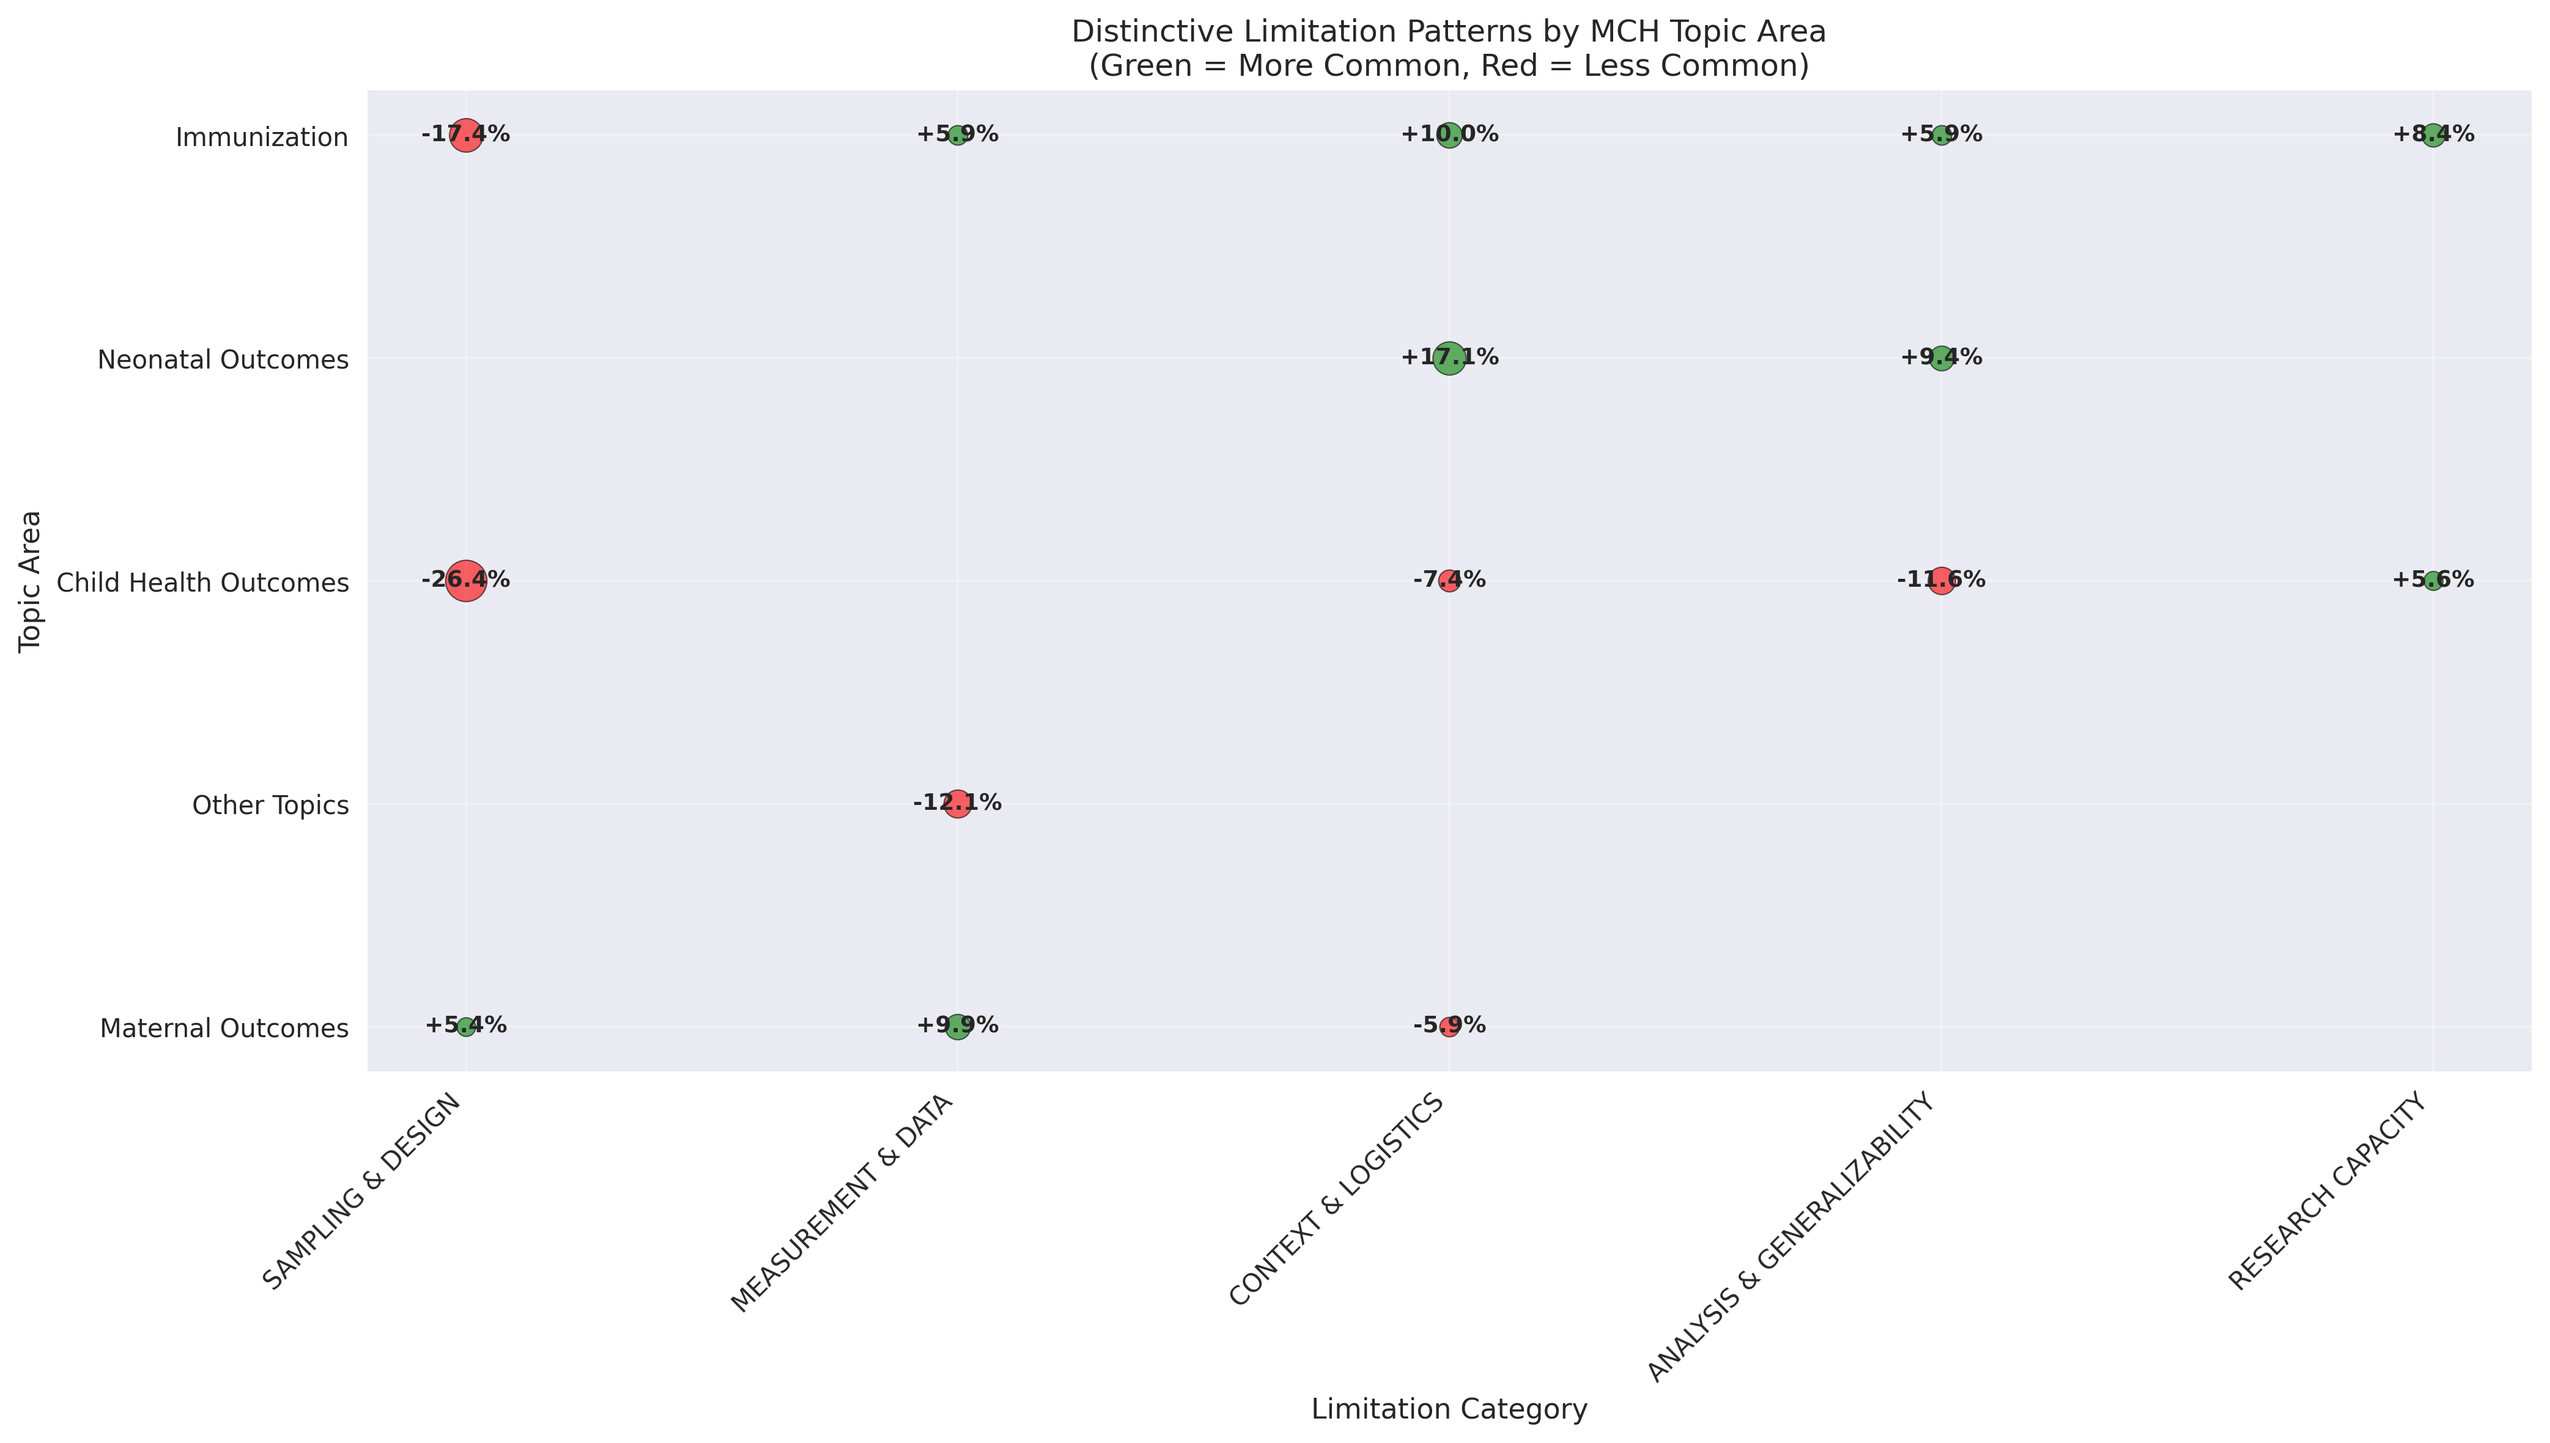
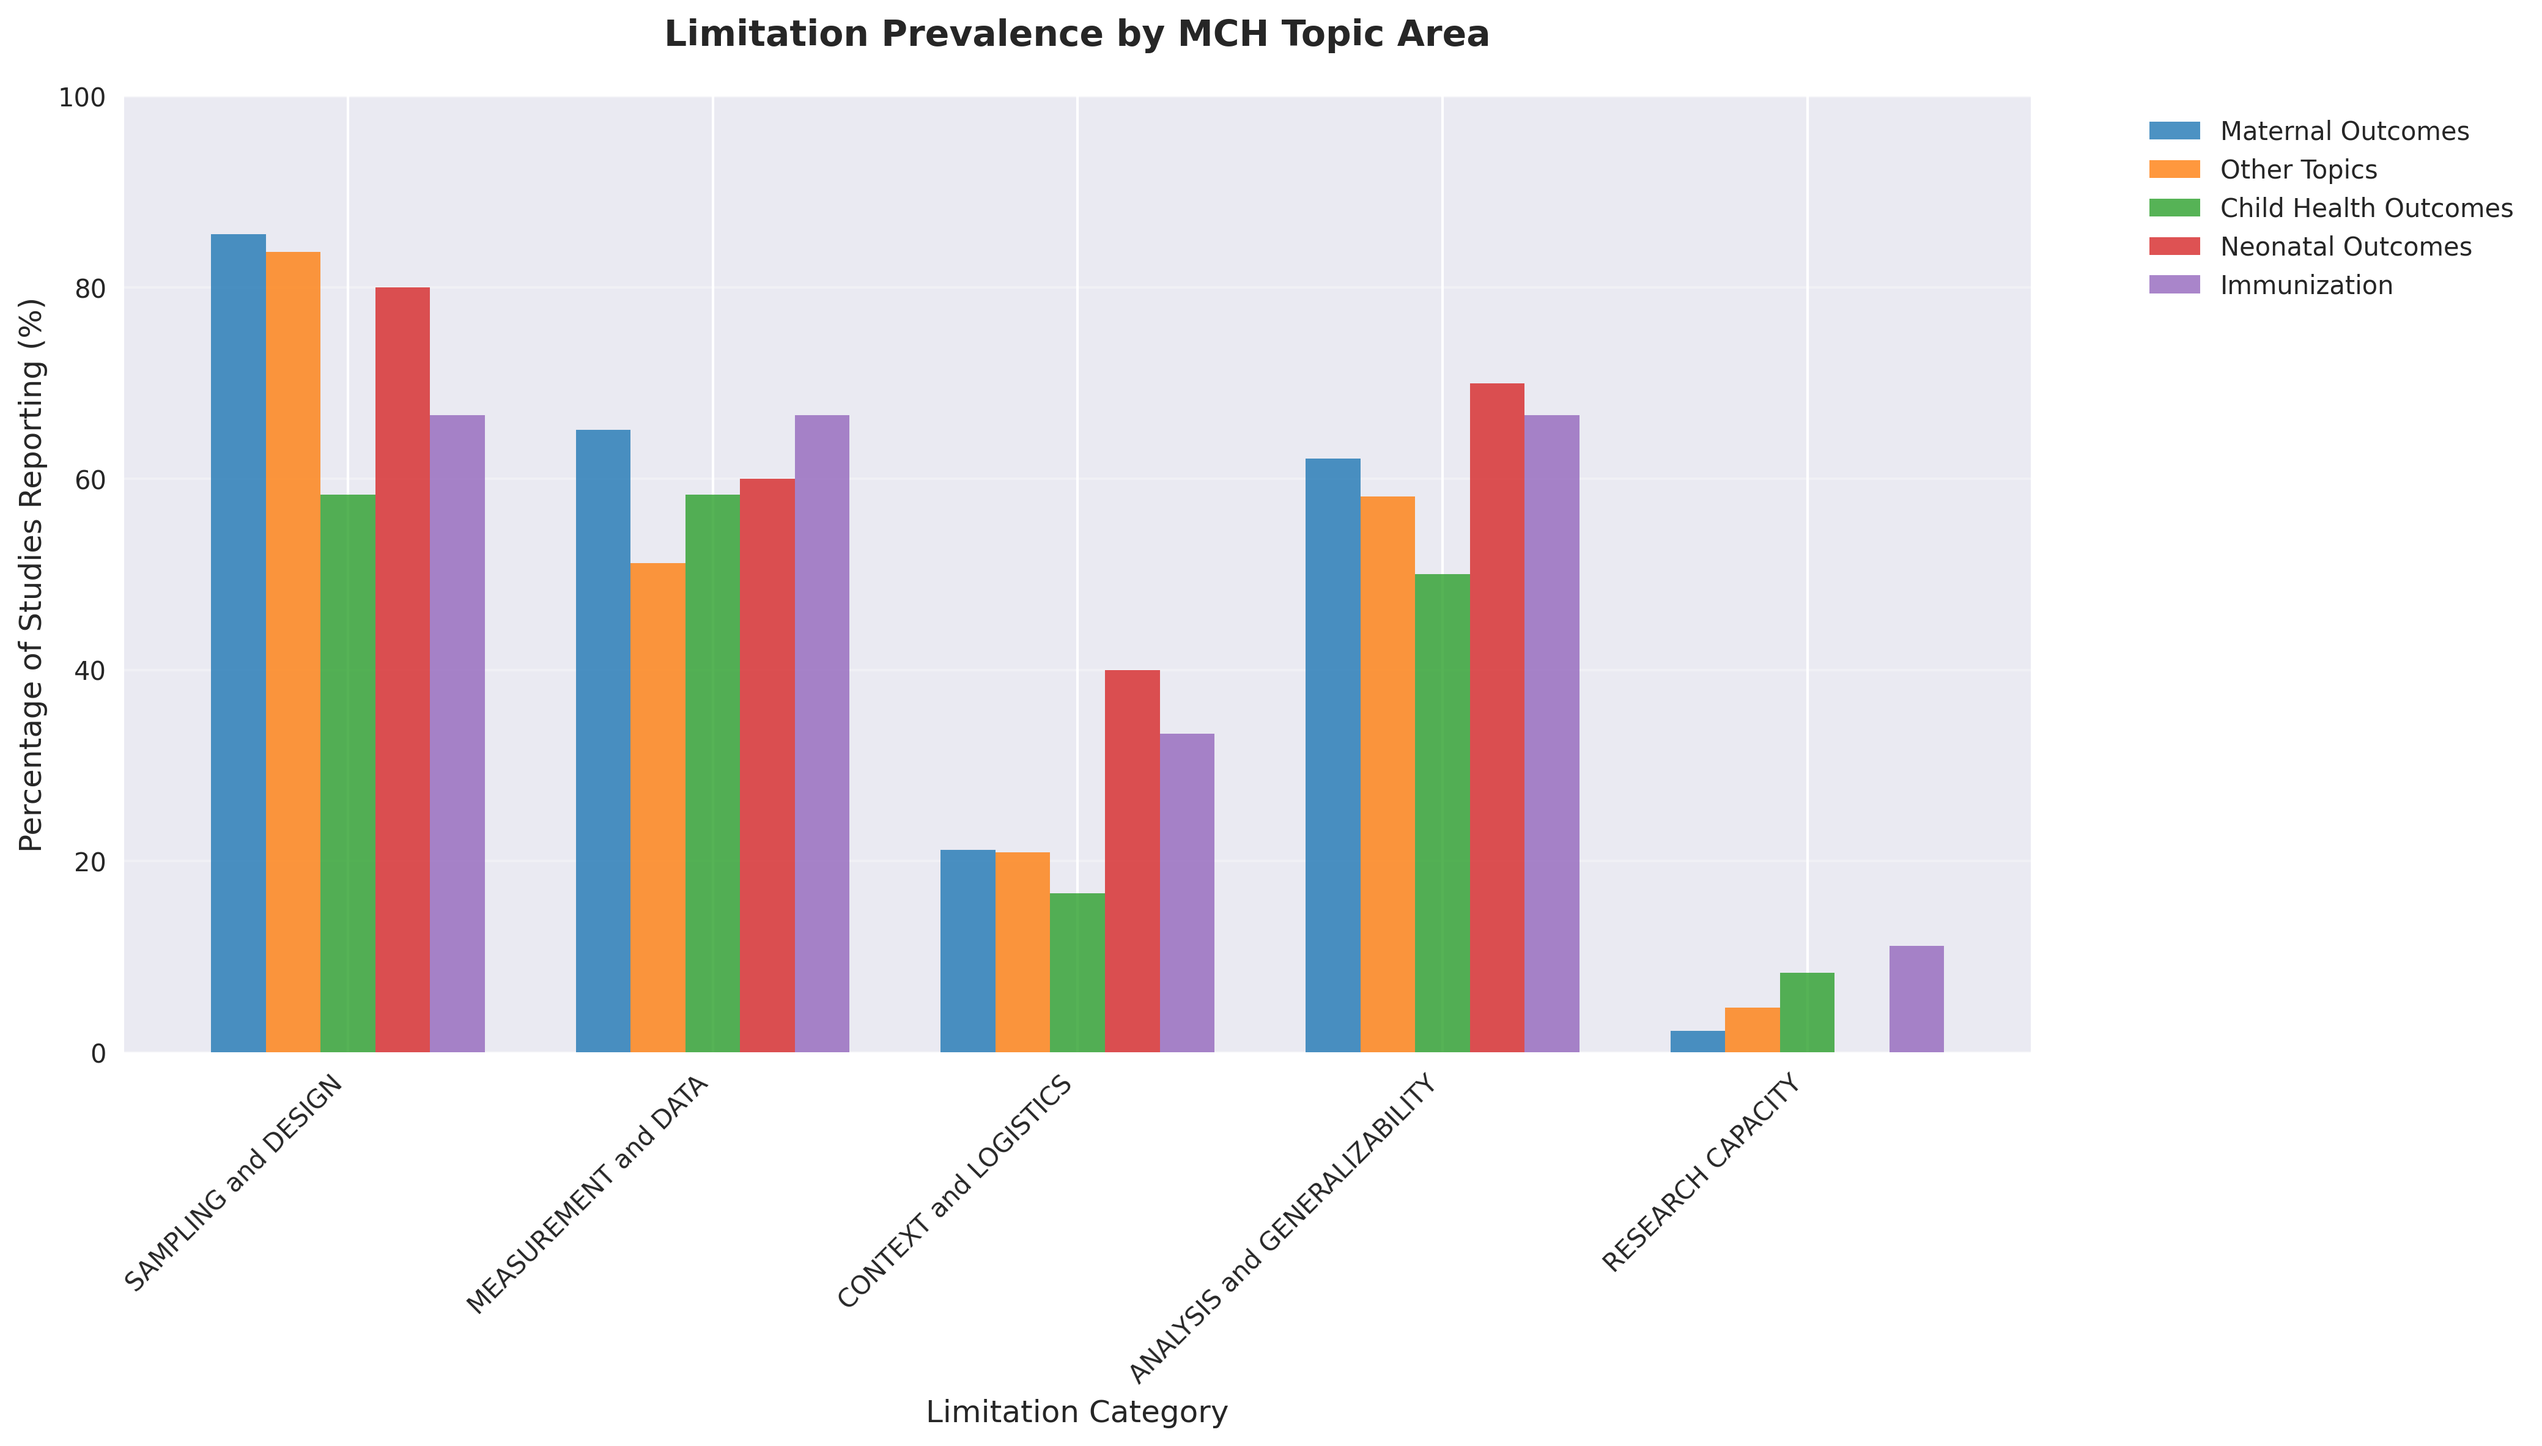
fix: Update topic analysis to show actual percentages matching manuscript
- Topic areas now display actual limitation prevalence rates
- Maternal outcomes: 65.2% measurement vs data limitations
- Neonatal outcomes: 41.2% contextual constraints
- Figures align with manuscript findings and data

diff --git a/scripts/clean_analysis.py b/scripts/clean_analysis.py
@@ -459,36 +459,26 @@ def analyze_contextual_limitations_trends(df, limitation_columns):
     return trend_df
 
 def analyze_topic_areas(df, limitation_columns):
-    """Analyze distinctive limitation patterns by MCH topic area"""
     print("\n=== 7. TOPIC-SPECIFIC LIMITATION PATTERNS ===")
     
-    # Get top topic areas
     topic_counts = df['Topic area'].value_counts()
     top_topics = topic_counts.head(5).index
     
-    # Analyze distinctive limitations for each topic
-    topic_analysis = []
+    topic_data = []
     
     for topic in top_topics:
         topic_studies = df[df['Topic area'] == topic]
-        other_studies = df[df['Topic area'] != topic]
         
-        topic_limits = {'Topic': topic, 'N': len(topic_studies)}
+        topic_percentages = {'Topic': topic, 'N': len(topic_studies)}
         
-        # Find limitations that are distinctive to this topic
         for col in limitation_columns:
-            topic_pct = (topic_studies[col].notna().sum() / len(topic_studies)) * 100
-            other_pct = (other_studies[col].notna().sum() / len(other_studies)) * 100
-            
-            # Calculate distinctiveness (how much more common in this topic)
-            distinctiveness = topic_pct - other_pct
-            topic_limits[col] = distinctiveness
+            pct = (topic_studies[col].notna().sum() / len(topic_studies)) * 100
+            topic_percentages[col] = pct
         
-        topic_analysis.append(topic_limits)
+        topic_data.append(topic_percentages)
     
-    topic_df = pd.DataFrame(topic_analysis)
+    topic_df = pd.DataFrame(topic_data)
     
-    # Clean topic names
     topic_clean_names = {
         'Maternal outcomes ': 'Maternal Outcomes',
         'Other': 'Other Topics', 
@@ -498,75 +488,41 @@ def analyze_topic_areas(df, limitation_columns):
     }
     topic_df['Clean_Topic'] = topic_df['Topic'].map(topic_clean_names)
     
-    print("Distinctive Limitations by Topic Area:")
-    print("(Positive values = more common in this topic, Negative = less common)")
-    
-    # Show most distinctive limitation for each topic
-    for _, row in topic_df.iterrows():
-        distinctive_limits = []
-        for col in limitation_columns:
-            if row[col] > 5:  # More than 5% higher than other topics
-                distinctive_limits.append(f"{col}: +{row[col]:.1f}%")
-            elif row[col] < -5:  # More than 5% lower than other topics
-                distinctive_limits.append(f"{col}: {row[col]:.1f}%")
-        
+    print("Limitation Prevalence by Topic Area:")
+    for idx, row in topic_df.iterrows():
         print(f"\n{row['Clean_Topic']} (N={row['N']}):")
-        if distinctive_limits:
-            for limit in distinctive_limits[:3]:  # Top 3 distinctive
-                print(f"  • {limit}")
-        else:
-            print("  No strongly distinctive limitations")
-    
-        # Visualization - Distinctive limitations by topic
-    plt.figure(figsize=(12, 8))
-    
-    # Prepare data for heatmap-style visualization
-    viz_data = []
-    for _, row in topic_df.iterrows():
         for col in limitation_columns:
-            if abs(row[col]) > 5:  # Only show distinctive differences
-                viz_data.append({
-                    'Topic': row['Clean_Topic'],
-                    'Limitation': col.replace('-- ', '').replace(' --', ''),
-                    'Distinctiveness': row[col],
-                    'Size': abs(row[col])
-                })
+            clean_col = col.strip('-- ').replace('&', 'and')
+            print(f"  {clean_col}: {row[col]:.1f}%")
     
-    if viz_data:  # Only create visualization if we have distinctive data
-        viz_df = pd.DataFrame(viz_data)
-        
-        # Create bubble chart
-        topics = viz_df['Topic'].unique()
-        limitations = viz_df['Limitation'].unique()
-        
-        fig, ax = plt.subplots(figsize=(14, 8))
-        
-        for i, topic in enumerate(topics):
-            for j, limitation in enumerate(limitations):
-                data_point = viz_df[(viz_df['Topic'] == topic) & (viz_df['Limitation'] == limitation)]
-                if not data_point.empty:
-                    distinctiveness = data_point['Distinctiveness'].iloc[0]
-                    size = data_point['Size'].iloc[0] * 10  # Scale for visibility
-                    color = 'green' if distinctiveness > 0 else 'red'
-                    
-                    ax.scatter(j, i, s=size, c=color, alpha=0.6, edgecolors='black', linewidth=0.5)
-                    ax.text(j, i, f'{distinctiveness:+.1f}%', ha='center', va='center', 
-                           fontsize=9, fontweight='bold')
-        
-        ax.set_xticks(range(len(limitations)))
-        ax.set_xticklabels(limitations, rotation=45, ha='right')
-        ax.set_yticks(range(len(topics)))
-        ax.set_yticklabels(topics)
-        ax.set_xlabel('Limitation Category')
-        ax.set_ylabel('Topic Area')
-        ax.set_title('Distinctive Limitation Patterns by MCH Topic Area\n(Green = More Common, Red = Less Common)')
-        ax.grid(True, alpha=0.3)
-        
-        plt.tight_layout()
-        plt.savefig('outputs/figures/07_topic_areas.png', dpi=300, bbox_inches='tight')
-        plt.show()
-    else:
-        print("\nNo strongly distinctive patterns found for visualization")
+    plt.figure(figsize=(14, 8))
+    
+    limitation_labels = [col.strip('-- ').replace('&', 'and') for col in limitation_columns]
+    topics_clean = [topic_clean_names[topic] for topic in top_topics]
+    
+    data_for_plot = topic_df[limitation_columns].values.T
+    
+    colors = ['#1f77b4', '#ff7f0e', '#2ca02c', '#d62728', '#9467bd']
+    
+    bar_width = 0.15
+    x_pos = np.arange(len(limitation_labels))
+    
+    for i, topic in enumerate(topics_clean):
+        plt.bar(x_pos + i * bar_width, data_for_plot[:, i], bar_width, 
+                label=topic, color=colors[i], alpha=0.8)
+    
+    plt.xlabel('Limitation Category', fontsize=12)
+    plt.ylabel('Percentage of Studies Reporting (%)', fontsize=12)
+    plt.title('Limitation Prevalence by MCH Topic Area', fontsize=14, fontweight='bold', pad=20)
+    plt.xticks(x_pos + bar_width * 2, limitation_labels, rotation=45, ha='right')
+    plt.legend(bbox_to_anchor=(1.05, 1), loc='upper left')
+    plt.grid(True, alpha=0.3, axis='y')
+    plt.ylim(0, 100)
+    
+    plt.tight_layout()
+    plt.savefig('outputs/figures/07_topic_areas.png', dpi=300, bbox_inches='tight')
+    plt.close()
+    
     return topic_df
 
 def analyze_funding_impact(df, limitation_columns):
